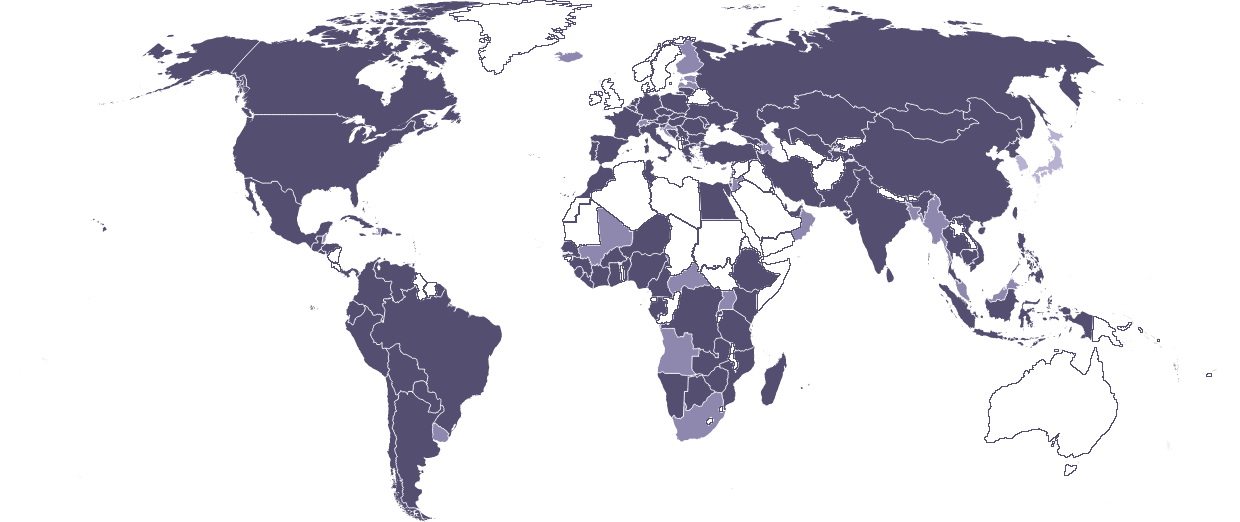
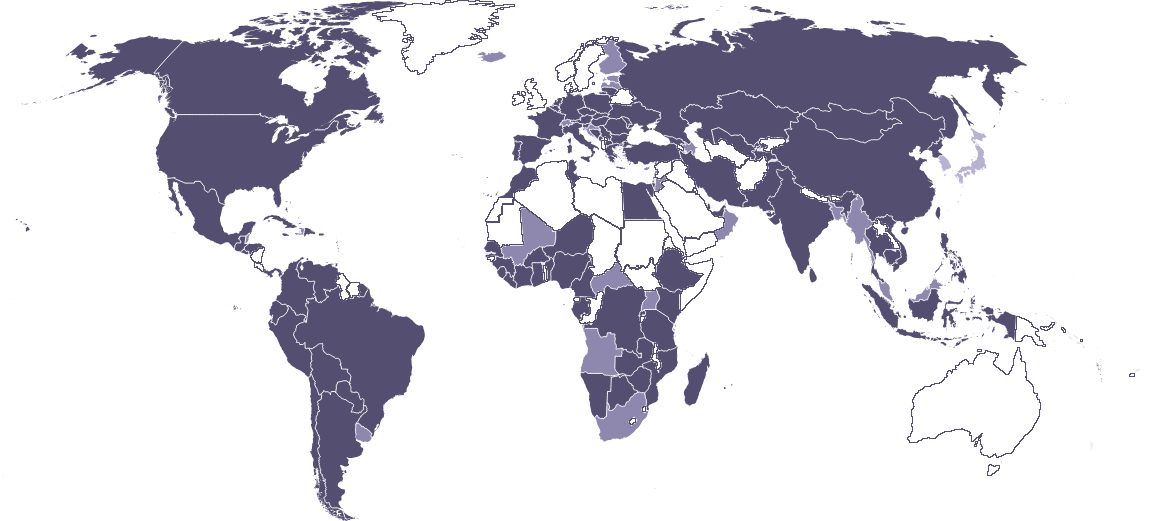
updated demo video

diff --git a/pages/beyond.vue b/pages/beyond.vue
@@ -1,5 +1,18 @@
 <template>
 <div>
+  <div class="timeline-mask" :style="slideStyle">
+    <div id="title">
+      <div id="pro-title" v-on:click="slideRight">
+        <span class="title-text" @mouseover="hoverPro" @mouseleave="hoverPro">norm</span>
+        <img class="direction" src="~assets/direction-w.png" width="50px" v-show="proActive&&!sectionDisplayed" :style="directionTranslate" />
+      </div>
+      <div id="anti-title" v-on:click="slideLeft">
+        <img class="direction" src="~assets/direction.png" width="50px" v-show="antiActive&&!sectionDisplayed" :style="directionTranslate" />
+        <span class="title-text" @mouseover="hoverAnti" @mouseleave="hoverAnti">stigma</span>
+      </div>
+    </div>
+
+  </div>
   <div class="bg"></div>
   <h1 class="section-title">
     <div class="row-section"></div>

diff --git a/pages/timeline.vue b/pages/timeline.vue
@@ -508,6 +508,8 @@ body {
   background-size: contain;
   background-position: center;
   background-repeat: no-repeat;
+  margin-top:30px;
+
 }
 #map-img-anti{
   background-image: url('~assets/antimask.png');
@@ -515,6 +517,7 @@ body {
   background-size: contain;
   background-position: center;
   background-repeat: no-repeat;
+  margin-top:30px;
 }
 .nextButton {
   display: inline-block;

diff --git a/nuxt.config.js b/nuxt.config.js
@@ -5,10 +5,10 @@
 // } : {}
 export default {
   mode: 'spa',
-  router: {
-    base: 'https://azuic.github.io/unmasking-masks/',
-    mode: 'hash'
-  },
+  // router: {
+  //   base: 'https://azuic.github.io/unmasking-masks/',
+  //   mode: 'hash'
+  // },
   /*
   ** Headers of the page
   */
